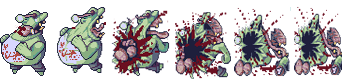
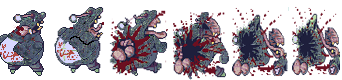
metido lo de la historia, boss y tank

diff --git a/Juego/NonSolum/Game.h b/Juego/NonSolum/Game.h
@@ -24,13 +24,14 @@ public:
 		TControlEng, TControlEsp, TEnemigoD, TEnemigoG, TCanon, TTick, THud, TTrayecto, THud2, TVagonReg, TDesierto,
 		TPradera, TVagonEscudo, TOscuridad, TTocho, TInvisible, TEscopetaN, TFrancoN, TMetralletaN, TMinigunN, TRevolverN,
 	    TSlender, TExplosion, TLaserRoto, TEscudoRoto, TFuegoRoto, TAutoRoto, TVagonSuc, TVacioR, TSucR, TRegR, 
-		TCanonN, TBotonOsc, TPausa, TBala2, THistoria1, TFondoIni, TLogo, TSangre, THistoria2, THistoria3, THistoria4, THistoria5};
+		TCanonN, TBotonOsc, TPausa, TBala2, THistoria1, TFondoIni, TLogo, TSangre, THistoria2, THistoria3, THistoria4, THistoria5, TBoss,
+	    THistEsp1, THistEsp2, THistEsp3, THistEsp4, THistEsp5, THistEng1, THistEng2, THistEng3, THistEng4, THistEng5};
 	enum Enemigo_t { Normal, Rapido, Tank, Enano, Invisible, Slender, Tocho, Boss/*...*/ };
 	enum Vagon_t { Locom, Vacio, Automatico, Laser, Lanzallamas, Escudo, Recuperador, Succionador/*...*/ };
 	enum Bala_t { BalaEnem, Piedra, Rayo, Fuego, Escopeta, E1, E2, Pistola, Sniper, Metralleta, Minigun, Canon, BalaEnemGorda/*...*/ };
 	enum Boton_t { Comprar, Jugar, Recolocar, Salir, Supervivencia, Historia, Spanish, English, Volver, Controles, Extrem, Desb /*...*/ };
 	enum EnemyDmg_t { Simple, Explosion, Bala };
-	enum Hud_t { Tick, Hud1, Trayecto, Tren, Fondo, BotonOsc, Logo, Sangre};
+	enum Hud_t { Tick, Hud1, Trayecto, Tren, Fondo, BotonOsc, Logo, Sangre, LetrasHist};
 	enum Fondo_t { Control, MenuP, Win, Lose, Tienda, Pause, Historia1, FondoInicio};
 	
 	std::string chooseText(string textArr[]);
@@ -90,7 +91,7 @@ private:
 
 	SDL_Event e;
 
-	std::string ntexturas[73]; 
+	std::string ntexturas[84]; 
 	
 
 	bool initSDL(); //ventana de render SDL (pantalla)

diff --git a/Juego/NonSolum/Hud.cpp b/Juego/NonSolum/Hud.cpp
@@ -98,6 +98,35 @@ Hud::Hud(Game* juego, Play* pl, float x, float y, Game::Hud_t t, Game::Fondo_t f
 		alto = 400;
 		ancho = 600;
 		break;
+	case Game::LetrasHist:
+		alto = 500;
+		ancho = 1000;
+		switch (juegootp->getNivel())
+		{
+		case 1:
+			if (juegootp->spanish) Ttextura = Game::Texturas_t::THistEsp1;
+			else Ttextura = Game::Texturas_t::THistEng1;
+			break;
+		case 4:
+			if (juegootp->spanish) Ttextura = Game::Texturas_t::THistEsp2;
+			else Ttextura = Game::Texturas_t::THistEng2;
+			break;
+		case 7:
+			if (juegootp->spanish) Ttextura = Game::Texturas_t::THistEsp3;
+			else Ttextura = Game::Texturas_t::THistEng3;
+			break;
+		case 10:
+			if (juegootp->spanish) Ttextura = Game::Texturas_t::THistEsp4;
+			else Ttextura = Game::Texturas_t::THistEng4;
+			break;
+		case 13:
+			if (juegootp->spanish) Ttextura = Game::Texturas_t::THistEsp5;
+			else Ttextura = Game::Texturas_t::THistEng5;
+			break;
+		default:
+			break;
+		}
+		break;
 	default:
 		break;
 	}	
@@ -120,6 +149,14 @@ void Hud::update(Uint32 delta) {
 			}
 			else cont += delta;
 		}		
+		break;
+	case Game::LetrasHist: 
+
+		if (pos.y >= 200 && cont>=15) {
+			pos.y--;
+			cont = 0;
+		}
+		else cont += delta;
 		break;
 	default:
 		break;

diff --git a/Juego/NonSolum/Historia.cpp b/Juego/NonSolum/Historia.cpp
@@ -29,11 +29,13 @@ Historia::Historia(Game* juego) :Estado(juego)
 
 	objetos.emplace_back(new Button(ptsjuego, posBotonx, posBotony, Game::Boton_t::Jugar, jugar));
 
-	 fondo = new Hud(ptsjuego, NULL, 0, 0, Game::Hud_t::Fondo, Game::Fondo_t::Historia1);		
+	fondo = new Hud(ptsjuego, NULL, 0, 0, Game::Hud_t::Fondo, Game::Fondo_t::Historia1);
+	letras = new Hud(ptsjuego, NULL, 100, 800, Game::Hud_t::LetrasHist, Game::Fondo_t::Historia1);
 }
 
 void Historia::draw() {
 	fondo->draw();
+	letras->draw();
 	Estado::draw();
 	if (cont <= 250) {
 		cont ++;
@@ -44,4 +46,7 @@ void Historia::draw() {
 }
 void Historia::jugar(Game* juego) {
 	juego->popState();
+}
+void Historia::update(Uint32 d) {
+	letras->update(d);
 }

diff --git a/Juego/NonSolum/Menu.cpp b/Juego/NonSolum/Menu.cpp
@@ -75,11 +75,11 @@ void Menu::draw(){
 	font->draw(ptsjuego->pRender, nullptr, &font->myFont.setRect(100, 350, 800, 200));
 
 	if (ptsjuego->getNivel()<9){
-		if (ptsjuego->spanish) font->loadFromText(ptsjuego->pRender, "(lvl 9)", fontColor);
+		font->loadFromText(ptsjuego->pRender, "(lvl 9)", fontColor);
 		font->draw(ptsjuego->pRender, nullptr, &font->myFont.setRect(40, 150, 280, 120));
 	}
     if (ptsjuego->getNivel()<15){
-		if (ptsjuego->spanish) font->loadFromText(ptsjuego->pRender, "(lvl 15)", fontColor);
+		font->loadFromText(ptsjuego->pRender, "(lvl 15)", fontColor);
 		font->draw(ptsjuego->pRender, nullptr, &font->myFont.setRect(40, 150, 180, 230));
 	}
 	Estado::draw();

diff --git a/Juego/NonSolum/Game.cpp b/Juego/NonSolum/Game.cpp
@@ -141,7 +141,7 @@ SDL_Renderer* Game::getRender()const {
 }
 
 void Game::initMedia() {
-	for (unsigned int i = 0; i < 73 /*magic namber dude*/; i++) {
+	for (unsigned int i = 0; i < 84 /*magic namber dude*/; i++) {
 		texts.emplace_back(new Texturas);
 		texts[i]->load(getRender(), ntexturas[i]);
 	}

diff --git a/Juego/NonSolum/Enemigo.cpp b/Juego/NonSolum/Enemigo.cpp
@@ -72,7 +72,7 @@ Enemigo::Enemigo(Game* juego, Play* pl, float x, float y, Game::Enemigo_t clase)
 		velVertical = 0.02;
 		break;
 	case Game::Enemigo_t::Boss:
-		Ttextura = Game::Texturas_t::TEnemigo2;
+		Ttextura = Game::Texturas_t::TBoss;
 		hp = 20000;
 		points = 350;
 		vel = 0.08;

diff --git a/Juego/NonSolum/Historia.h b/Juego/NonSolum/Historia.h
@@ -11,9 +11,11 @@ public:
 	Historia(Game* juego);
 	virtual ~Historia(){}
 	void draw();
+	void update(Uint32 d);
 private:
 	static void jugar(Game * jg);
 	Hud* fondo;
+	Hud* letras;
 	int cont;
 };
 
